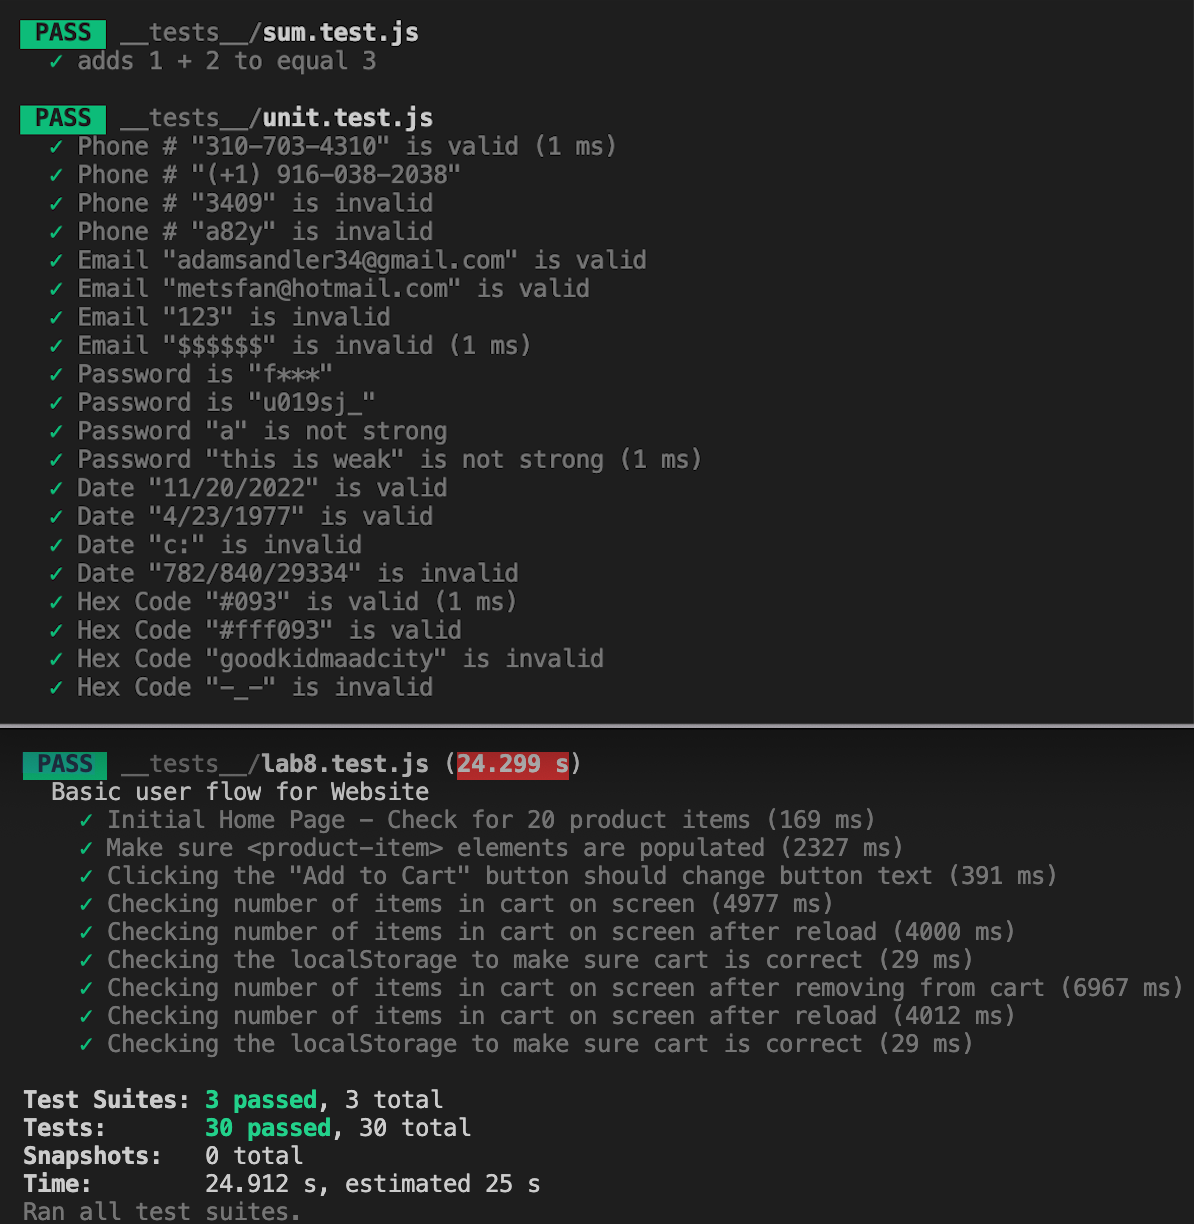
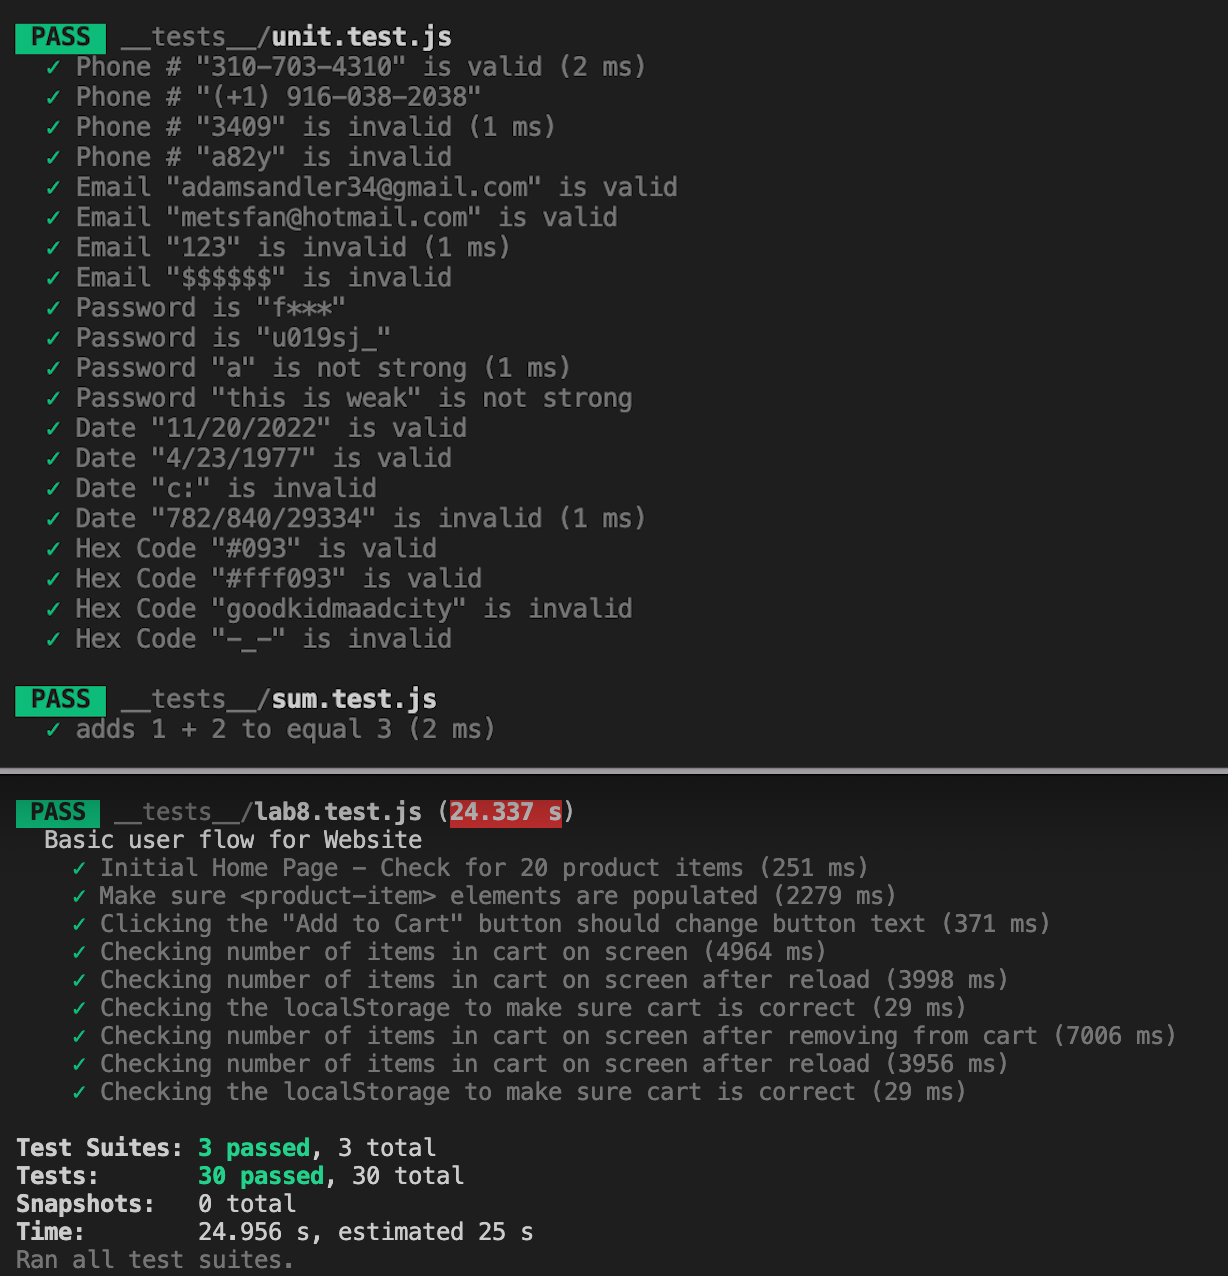
add sum-test

diff --git a/__tests__/sum.test.js b/__tests__/sum.test.js
@@ -1,5 +1,7 @@
 // sum.test.js
+const sum = require('../code-to-unit-test/sum.js');
 
 test('adds 1 + 2 to equal 3', () => {
   // TODO
+  expect(sum(1,2)).toBe(3);
 });
